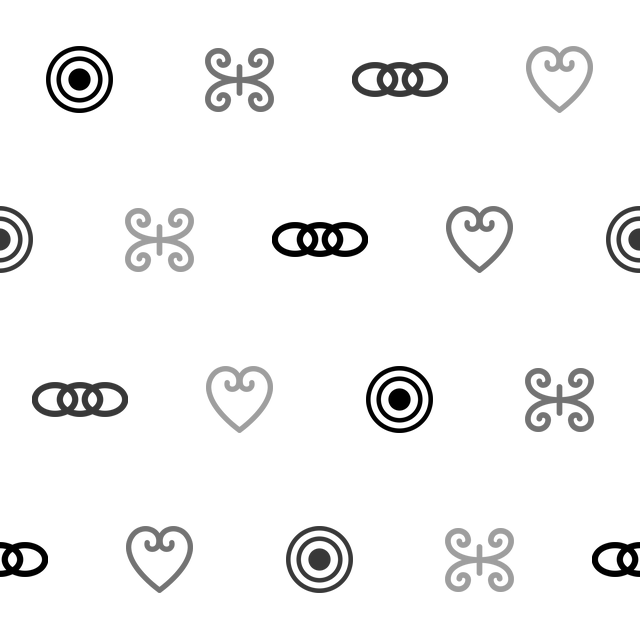
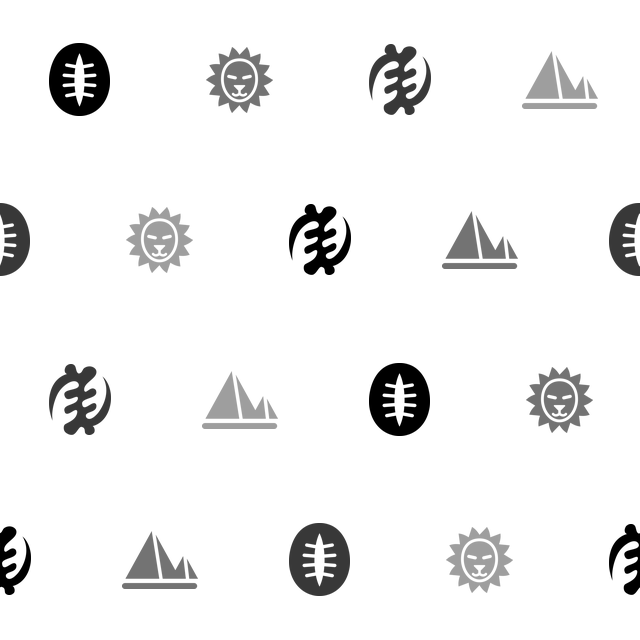
Replace the four Adinkra marks with cowrie, lion, Gye Nyame and pyramid (REQ-052, REQ-273)
The owner approved four new solid brand marks (D-073): the cowrie shell for Influence (blue), the lion for
Achievement (orange), Gye Nyame (green) and the pyramid for Legacy (purple). They replace Adinkrahene,
Dwennimmen, Nkonsonkonson and Sankofa.

- New files mark-cowrie, mark-lion, mark-gye-nyame and mark-pyramid (600 px, black on transparent);
  the old mark files are removed. Gye Nyame follows a CC0 drawing by kasahorow (Openclipart).
- Mark slugs, CSS variables and poster and home classes renamed to match; pattern-marks.webp rebuilt
  with site/build/pattern-tile.py; the home particle stage masks regenerated.
- Tests list the new approved files; brand docs, handbook, glossary, questions and decisions updated.

diff --git a/site/wp-content/themes/whoiswho/assets/js/stage/marks.js b/site/wp-content/themes/whoiswho/assets/js/stage/marks.js
@@ -1,2 +1,2 @@
-/* The four Adinkra marks as 1-bit masks, sampled by the home page particle stage. Generated from prototype/theme/shapes.js; do not edit. */
[1 lines of base64/hex data omitted]
+/* The four brand marks (cowrie, lion, Gye Nyame, pyramid) as 1-bit masks, sampled by the home page particle stage. Generated from the mark drawings; do not edit. */
[1 lines of base64/hex data omitted]

diff --git a/site/wp-content/themes/whoiswho/assets/css/components.css b/site/wp-content/themes/whoiswho/assets/css/components.css
@@ -257,7 +257,7 @@ ul.sponsors { list-style: none; }
 /* ---------- home hero ---------- */
 .hero { position: relative; overflow: hidden; background: var(--c-dark-deep); color: var(--c-on-dark); isolation: isolate; }
 
-/* The brand pattern: the four approved Adinkra marks in shades of the text colour (docs/theme/brand-and-tokens.md, "Approved symbols"). */
+/* The brand pattern: the four approved brand marks in shades of the text colour (docs/theme/brand-and-tokens.md, "Approved symbols"). */
 .hero::before, .pattern::before { content: ""; position: absolute; inset: 0; z-index: -1; background: currentcolor; opacity: .05; pointer-events: none; mask: var(--img-pattern-tile) 0 0 / 320px 320px repeat; }
 .pattern { position: relative; isolation: isolate; }
 .hero-grid { display: grid; grid-template-columns: minmax(0, 1fr); gap: var(--s-4); padding-block: var(--s-6) 0; }
@@ -769,7 +769,7 @@ table.t th, table.t td { padding: var(--s-2) var(--s-3); border-bottom: 1px soli
 .poster--red { --pt: var(--red); --pa: var(--orange); --pi: var(--c-white); }
 .poster-pat { position: absolute; inset: 0; z-index: 0; background: rgb(0, 0, 0, .16); mask: var(--img-pattern-tile) 0 0 / 200px 200px repeat; transition: -webkit-mask-position 1200ms var(--ease-out), mask-position 1200ms var(--ease-out); }
 .poster-mark { position: absolute; z-index: 1; top: 3%; right: -6%; width: 62%; aspect-ratio: 1; background: var(--pa); mask: var(--m) center / contain no-repeat; mask: var(--m) center / contain no-repeat; transition: transform 1100ms var(--ease-out); }
-.poster-mark--star { --m: var(--img-mark-star); } .poster-mark--comb { --m: var(--img-mark-comb); } .poster-mark--link { --m: var(--img-mark-link); } .poster-mark--spiral { --m: var(--img-mark-spiral); }
+.poster-mark--cowrie { --m: var(--img-mark-cowrie); } .poster-mark--lion { --m: var(--img-mark-lion); } .poster-mark--gye-nyame { --m: var(--img-mark-gye-nyame); } .poster-mark--pyramid { --m: var(--img-mark-pyramid); }
 .poster-photo { position: absolute; z-index: 2; left: 12%; right: 12%; bottom: 0; width: 76%; height: 80%; object-fit: cover; object-position: 50% 18%; box-shadow: 0 -2px 0 0 rgb(0, 0, 0, .06); transition: transform 900ms var(--ease-out); }
 .poster-ini { position: absolute; z-index: 2; left: 9%; bottom: 7%; font: 400 clamp(3.5rem, 2.5rem + 3vw, 5.5rem)/.9 var(--font-display); color: var(--pi); }
 .poster--org .poster-mark { top: -6%; bottom: auto; right: -12%; width: 66%; }

diff --git a/site/wp-content/themes/whoiswho-child/assets/css/tokens.css b/site/wp-content/themes/whoiswho-child/assets/css/tokens.css
@@ -18,11 +18,11 @@
   /* Brand images; the url() resolves from this file, so these work wherever the component CSS is served from */
   --c-white: #fff;
   --img-logo: url("../logo/wiw-logo-mask.webp"); /* the wordmark as an alpha mask, painted in the text colour */
-  --img-pattern-tile: url("../brand/pattern-marks.webp"); /* the four approved Adinkra marks only; built by site/build/pattern-tile.py */
-  --img-mark-star: url("../brand/mark-star.webp");
-  --img-mark-comb: url("../brand/mark-comb.webp");
-  --img-mark-link: url("../brand/mark-link.webp");
-  --img-mark-spiral: url("../brand/mark-spiral.webp");
+  --img-pattern-tile: url("../brand/pattern-marks.webp"); /* the four approved brand marks only; built by site/build/pattern-tile.py */
+  --img-mark-cowrie: url("../brand/mark-cowrie.webp");
+  --img-mark-lion: url("../brand/mark-lion.webp");
+  --img-mark-gye-nyame: url("../brand/mark-gye-nyame.webp");
+  --img-mark-pyramid: url("../brand/mark-pyramid.webp");
 
   /* Raw palette */
   --charcoal-950: #1f1f1f;

diff --git a/site/wp-content/themes/whoiswho/assets/css/home.css b/site/wp-content/themes/whoiswho/assets/css/home.css
@@ -101,10 +101,10 @@ html.home-live.home-in .h-hero-foot { opacity: 1; transition: opacity 900ms ease
 
 /* Brand marks: images from the child theme's tokens (--img-mark-*). */
 .h-mark { display: block; background: center / contain no-repeat; }
-.h-mark--star { background-image: var(--img-mark-star); }
-.h-mark--comb { background-image: var(--img-mark-comb); }
-.h-mark--link { background-image: var(--img-mark-link); }
-.h-mark--spiral { background-image: var(--img-mark-spiral); }
+.h-mark--cowrie { background-image: var(--img-mark-cowrie); }
+.h-mark--lion { background-image: var(--img-mark-lion); }
+.h-mark--gye-nyame { background-image: var(--img-mark-gye-nyame); }
+.h-mark--pyramid { background-image: var(--img-mark-pyramid); }
 
 /* Three acts: stacked full-height colour scenes (pinned and animated only when motion is allowed). */
 .h-act { position: relative; display: flex; min-height: 90svh; overflow: hidden; }

diff --git a/site/wp-content/themes/whoiswho/assets/js/home-stage.js b/site/wp-content/themes/whoiswho/assets/js/home-stage.js
@@ -105,7 +105,7 @@ function build(light, accent) {
   const gl = createPoints(canvas, VS, FS, { aFrom: 3, aTo: 3, aRnd: 4 });
   if (!gl) throw new Error("webgl");
   const globe = globePoints(n);
-  const marks = ["star", "comb", "spiral"].map((k) => maskPoints(MARKS[k], n));
+  const marks = ["cowrie", "lion", "pyramid"].map((k) => maskPoints(MARKS[k], n));
   const toBuffer = (list) => {
     const a = new Float32Array(n * 3);
     for (let i = 0; i < n; i++) {

diff --git a/site/wp-content/themes/whoiswho/assets/css/tokens.base.css b/site/wp-content/themes/whoiswho/assets/css/tokens.base.css
@@ -23,10 +23,10 @@
   --c-white: white;
   --img-logo: none;
   --img-pattern-tile: none;
-  --img-mark-star: none;
-  --img-mark-comb: none;
-  --img-mark-link: none;
-  --img-mark-spiral: none;
+  --img-mark-cowrie: none;
+  --img-mark-lion: none;
+  --img-mark-gye-nyame: none;
+  --img-mark-pyramid: none;
   --c-on-dark: Canvas;
   --c-on-dark-muted: Canvas;
   --c-line-on-dark: GrayText;

diff --git a/site/wp-content/themes/whoiswho/inc/home.php b/site/wp-content/themes/whoiswho/inc/home.php
@@ -123,7 +123,7 @@ if ( ! function_exists( 'wiw_home_acts' ) ) {
 		return array(
 			array(
 				'tone' => 'blue',
-				'mark' => 'star',
+				'mark' => 'cowrie',
 				'word' => $words[0] . '.',
 				'text' => __( 'The people and organisations making a difference and shaping the world around them.', 'whoiswho' ),
 				'link' => __( 'Discover the people', 'whoiswho' ),
@@ -131,7 +131,7 @@ if ( ! function_exists( 'wiw_home_acts' ) ) {
 			),
 			array(
 				'tone' => 'orange',
-				'mark' => 'comb',
+				'mark' => 'lion',
 				'word' => $words[1] . '.',
 				'text' => __( 'The milestones, contributions and innovations that deserve to be on the record.', 'whoiswho' ),
 				'link' => __( 'See how recognition works', 'whoiswho' ),
@@ -139,7 +139,7 @@ if ( ! function_exists( 'wiw_home_acts' ) ) {
 			),
 			array(
 				'tone' => 'purple',
-				'mark' => 'spiral',
+				'mark' => 'pyramid',
 				'word' => $words[2] . '.',
 				'text' => __( 'The lasting impact people and institutions leave behind, kept accurate over time.', 'whoiswho' ),
 				'link' => __( 'Read the stories', 'whoiswho' ),
@@ -159,28 +159,28 @@ if ( ! function_exists( 'wiw_home_doors' ) ) {
 		return array(
 			array(
 				'tone'  => 'blue',
-				'mark'  => 'star',
+				'mark'  => 'cowrie',
 				'title' => __( 'People', 'whoiswho' ),
 				'text'  => __( 'Leaders and professionals on the public record', 'whoiswho' ),
 				'url'   => home_url( '/people/' ),
 			),
 			array(
 				'tone'  => 'orange',
-				'mark'  => 'comb',
+				'mark'  => 'lion',
 				'title' => __( 'Entrepreneurs', 'whoiswho' ),
 				'text'  => __( 'Founders and the ventures they built', 'whoiswho' ),
 				'url'   => home_url( '/entrepreneurs/' ),
 			),
 			array(
 				'tone'  => 'green',
-				'mark'  => 'link',
+				'mark'  => 'gye-nyame',
 				'title' => __( 'Businesses', 'whoiswho' ),
 				'text'  => __( 'Companies, from startups to listed groups', 'whoiswho' ),
 				'url'   => home_url( '/businesses/' ),
 			),
 			array(
 				'tone'  => 'purple',
-				'mark'  => 'spiral',
+				'mark'  => 'pyramid',
 				'title' => __( 'Institutions', 'whoiswho' ),
 				'text'  => __( 'Universities, associations and public bodies', 'whoiswho' ),
 				'url'   => home_url( '/institutions/' ),

diff --git a/site/tests/Unit/ChildBrandTokensTest.php b/site/tests/Unit/ChildBrandTokensTest.php
@@ -122,11 +122,11 @@ final class ChildBrandTokensTest extends TestCase {
 		$this->assertStringContainsString( 'pattern-marks.webp', (string) file_get_contents( $this->child() . '/inc/assets.php' ) ); // phpcs:ignore WordPress.WP.AlternativeFunctions
 	}
 
-	public function test_REQ_273_only_the_four_approved_adinkra_marks_and_the_pattern_built_from_them_are_brand_symbols(): void {
-		$approved = array( 'mark-comb.webp', 'mark-link.webp', 'mark-spiral.webp', 'mark-star.webp', 'pattern-marks.webp' );
+	public function test_REQ_273_only_the_four_approved_brand_marks_and_the_pattern_built_from_them_are_brand_symbols(): void {
+		$approved = array( 'mark-cowrie.webp', 'mark-gye-nyame.webp', 'mark-lion.webp', 'mark-pyramid.webp', 'pattern-marks.webp' );
 		$found    = array_map( 'basename', (array) glob( $this->child() . '/assets/brand/*' ) );
 		sort( $found );
-		$this->assertSame( $approved, $found, 'the brand folder holds the four approved marks (Adinkrahene, Dwennimmen, Nkonsonkonson, Sankofa) and the tile made from them, nothing else' );
+		$this->assertSame( $approved, $found, 'the brand folder holds the four approved marks (cowrie, lion, Gye Nyame, pyramid) and the tile made from them, nothing else' );
 		$this->assertFileDoesNotExist( $this->child() . '/assets/brand/pattern-tile.webp', 'the brush-glyph tile is not an approved symbol' );
 		$this->assertFileExists( dirname( __DIR__, 2 ) . '/build/pattern-tile.py', 'the tile is rebuilt from the four marks by a script' );
 		// No theme stylesheet, template or script points at a brand image outside the approved list.
@@ -148,7 +148,7 @@ final class ChildBrandTokensTest extends TestCase {
 		foreach ( array( 'wiw-logo.png', 'wiw-icon.png', 'wiw-icon-black.png' ) as $file ) {
 			$this->assertFileExists( $this->child() . '/assets/logo/' . $file );
 		}
-		foreach ( array( 'mark-star.webp', 'mark-comb.webp', 'mark-link.webp', 'mark-spiral.webp', 'pattern-marks.webp' ) as $file ) {
+		foreach ( array( 'mark-cowrie.webp', 'mark-lion.webp', 'mark-gye-nyame.webp', 'mark-pyramid.webp', 'pattern-marks.webp' ) as $file ) {
 			$this->assertFileExists( $this->child() . '/assets/brand/' . $file );
 		}
 	}

diff --git a/site/build/pattern-tile.py b/site/build/pattern-tile.py
@@ -1,11 +1,11 @@
-"""Builds the brand pattern tile from the four approved Adinkra marks (REQ-273, issue 808).
+"""Builds the brand pattern tile from the four approved brand marks (REQ-273, issue 808).
 
 The brand guide's pattern rule: the marks in varying shades of a single colour, in a clean, balanced and consistent
 arrangement. The tile is an alpha-only image (black at varying opacity): the theme uses it as a CSS mask and paints the
 colour through a token, so one file serves light, dark and coloured surfaces.
 
-Only these four marks may appear in a pattern: Adinkrahene (mark-star), Dwennimmen (mark-comb), Nkonsonkonson
-(mark-link) and Sankofa (mark-spiral). See docs/theme/brand-and-tokens.md, "Approved symbols".
+Only these four marks may appear in a pattern: the cowrie shell (mark-cowrie), the lion (mark-lion), Gye Nyame
+(mark-gye-nyame) and the pyramid (mark-pyramid). See docs/theme/brand-and-tokens.md, "Approved symbols".
 
 Run from the repository root (needs Python 3 and Pillow):
     python site/build/pattern-tile.py
@@ -17,7 +17,7 @@ from pathlib import Path
 from PIL import Image, ImageChops
 
 BRAND = Path(__file__).resolve().parent.parent / "wp-content" / "themes" / "whoiswho-child" / "assets" / "brand"
-MARKS = ["star", "comb", "link", "spiral"]
+MARKS = ["cowrie", "lion", "gye-nyame", "pyramid"]
 
 TILE = 640  # pixels; the CSS shows it at 320 px or less, so it stays sharp on 2x screens
 CELLS = 4  # 4 x 4 cells, every mark once per row and per column
@@ -34,7 +34,7 @@ def mark(name: str) -> Image.Image:
     box = alpha.getbbox()
     alpha = alpha.crop(box) if box else alpha
     w, h = alpha.size
-    # Size by area, not by the longer side, so the wide, low chain (mark-link) does not look smaller than the round marks.
+    # Size by area, not by the longer side, so a wide, low mark does not look smaller than the round ones.
     scale = min(1.3 * MARK / max(w, h), 0.9 * MARK / (w * h) ** 0.5)
     alpha = alpha.resize((max(1, round(w * scale)), max(1, round(h * scale))), Image.LANCZOS)
     box = BOX

diff --git a/site/wp-content/themes/whoiswho/patterns/about-page.php b/site/wp-content/themes/whoiswho/patterns/about-page.php
@@ -10,9 +10,9 @@
  */
 
 $wiw_pillars = array(
-	array( 'blue', 'star', '01', _x( 'Influence', 'pattern text', 'whoiswho' ), _x( 'The people and organisations making a difference and shaping the world around them.', 'pattern text', 'whoiswho' ) ),
-	array( 'orange', 'comb', '02', _x( 'Achievement', 'pattern text', 'whoiswho' ), _x( 'The milestones, contributions and innovations that deserve to be recognised.', 'pattern text', 'whoiswho' ) ),
-	array( 'green', 'spiral', '03', _x( 'Legacy', 'pattern text', 'whoiswho' ), _x( 'The lasting impact people and institutions leave behind.', 'pattern text', 'whoiswho' ) ),
+	array( 'blue', 'cowrie', '01', _x( 'Influence', 'pattern text', 'whoiswho' ), _x( 'The people and organisations making a difference and shaping the world around them.', 'pattern text', 'whoiswho' ) ),
+	array( 'orange', 'lion', '02', _x( 'Achievement', 'pattern text', 'whoiswho' ), _x( 'The milestones, contributions and innovations that deserve to be recognised.', 'pattern text', 'whoiswho' ) ),
+	array( 'green', 'pyramid', '03', _x( 'Legacy', 'pattern text', 'whoiswho' ), _x( 'The lasting impact people and institutions leave behind.', 'pattern text', 'whoiswho' ) ),
 );
 $wiw_ways    = array(
 	array( '/directory/', _x( 'The directory', 'pattern text', 'whoiswho' ), _x( 'Profiles of people, businesses and institutions, with the facts and the sources behind each one.', 'pattern text', 'whoiswho' ) ),

diff --git a/site/wp-content/themes/whoiswho/inc/awards.php b/site/wp-content/themes/whoiswho/inc/awards.php
@@ -54,13 +54,13 @@ if ( ! function_exists( 'wiw_award_group_style' ) ) {
 	 */
 	function wiw_award_group_style( string $group_key ): array {
 		$map = array(
-			'leadership-public-impact'     => array( 'blue', 'star' ),
-			'entrepreneurship-business'    => array( 'orange', 'comb' ),
-			'technology-innovation'        => array( 'purple', 'spiral' ),
-			'professional-excellence'      => array( 'green', 'link' ),
-			'industry-institutional-recog' => array( 'red', 'comb' ),
+			'leadership-public-impact'     => array( 'blue', 'cowrie' ),
+			'entrepreneurship-business'    => array( 'orange', 'lion' ),
+			'technology-innovation'        => array( 'purple', 'pyramid' ),
+			'professional-excellence'      => array( 'green', 'gye-nyame' ),
+			'industry-institutional-recog' => array( 'red', 'lion' ),
 		);
-		$row = $map[ $group_key ] ?? array( 'blue', 'star' );
+		$row = $map[ $group_key ] ?? array( 'blue', 'cowrie' );
 		return array(
 			'tone' => $row[0],
 			'mark' => $row[1],

diff --git a/site/tests/Integration/ThemeParityTest.php b/site/tests/Integration/ThemeParityTest.php
@@ -112,9 +112,9 @@ final class ThemeParityTest extends TestCase {
 		$out = wiw_render_portrait_trio_block();
 		$this->assertStringContainsString( 'class="ab-stack wiw-portrait-trio" aria-hidden="true"', $out );
 		$this->assertSame( 3, substr_count( $out, 'class="ab-stack-item"' ) );
-		preg_match_all( '#poster-mark--([a-z]+)#', $out, $marks );
+		preg_match_all( '#poster-mark--([a-z-]+)#', $out, $marks );
 		foreach ( $marks[1] as $mark ) {
-			$this->assertContains( $mark, array( 'star', 'comb', 'link', 'spiral' ), 'only the four approved marks' );
+			$this->assertContains( $mark, array( 'cowrie', 'lion', 'gye-nyame', 'pyramid' ), 'only the four approved marks' );
 		}
 	}
 
